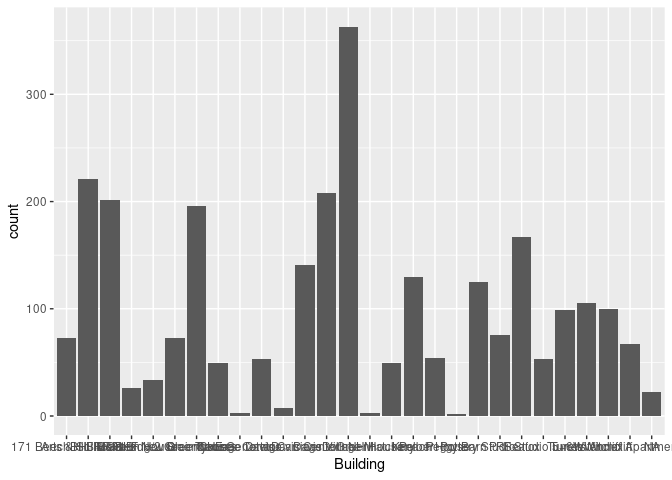
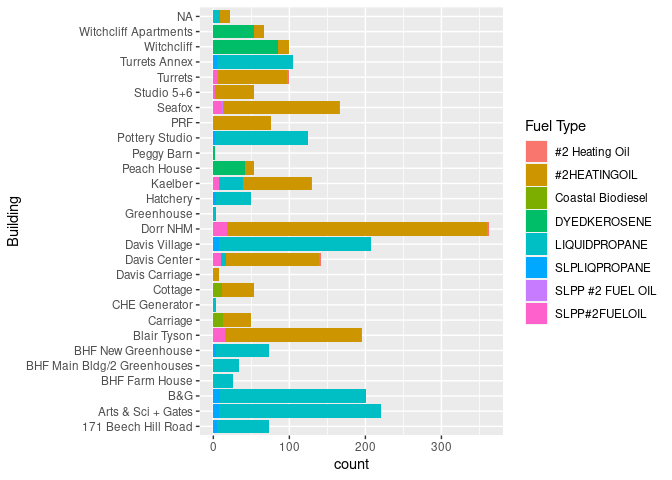
Add data link

Changed region(s): [[0.0, 0.0, 1.0, 1.0], [0.0312, 0.625, 0.0625, 0.6562], [0.0312, 0.1875, 0.0625, 0.2188]]

diff --git a/proposal/proposal.md b/proposal/proposal.md
@@ -38,8 +38,10 @@ energy_use <- read_excel("../data/energy_use.xlsx")
     ## • `` -> `...10`
 
 ``` r
-# View(energy_use)
+#View(energy_use)
 ```
+
+<https://docs.google.com/spreadsheets/d/17HQLm0ieg3CpGigJwEUrePDcWNnYUJZW/edit#gid=570530532>
 
 ## 3. Ethics review
 
@@ -53,8 +55,9 @@ Initially we will focus on the buildings on campus and seek advice from
 David.
 
 ``` r
-ggplot(data = energy_use, mapping = aes(x = Building )) +
-geom_bar()
+ggplot(data = energy_use) +
+geom_bar( mapping = aes(x = Building, fill = `Fuel Type` )) +
+  coord_flip()
 ```
 
 ![](proposal_files/figure-gfm/unnamed-chunk-2-1.png)<!-- -->
